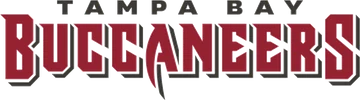
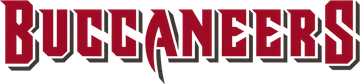
Wordmarks: the owner's one-line Buccaneers and Vikings files
Claude-Session: https://claude.ai/code/session_01Pqo4PUB5f8JqeHqFrErqwg

diff --git a/helmets.py b/helmets.py
@@ -16,12 +16,12 @@ NOFLIP = ["LV", "SF"]
 SET = "nfl"
 # width / height of each wordmark file (assets/wm), so a board header can give every mark the same width and let its height follow
 # (owner 11/27: "I love how the raiders word mark fits under the logo and LV ... Can every word mark fit like that?")
-WM_AR = {'ARI': 10.59, 'ATL': 11.25, 'BAL': 7.06, 'BUF': 3.79, 'CAR': 4.86, 'CHI': 6.92, 'CIN': 10.91, 'CLE': 4.09, 'DAL': 5.71, 'DEN': 8.57, 'DET': 3.71, 'GB': 3.36, 'HOU': 10.0, 'IND': 4.04, 'JAX': 4.44, 'KC': 4.39, 'LA': 4.56, 'LAC': 5.22, 'LV': 5.71, 'MIA': 5.07, 'MIN': 2.31, 'NE': 4.24, 'NO': 4.29, 'NYG': 3.19, 'NYJ': 3.16, 'PHI': 5.9, 'PIT': 3.56, 'SEA': 9.23, 'SF': 5.14, 'TB': 3.6, 'TEN': 6.32, 'WAS': 6.67}
+WM_AR = {'ARI': 10.59, 'ATL': 11.25, 'BAL': 7.06, 'BUF': 3.79, 'CAR': 4.86, 'CHI': 6.92, 'CIN': 10.91, 'CLE': 4.09, 'DAL': 5.71, 'DEN': 8.57, 'DET': 3.71, 'GB': 3.36, 'HOU': 10.0, 'IND': 4.04, 'JAX': 4.44, 'KC': 4.39, 'LA': 4.56, 'LAC': 5.22, 'LV': 5.71, 'MIA': 5.07, 'MIN': 3.1, 'NE': 4.24, 'NO': 4.29, 'NYG': 3.19, 'NYJ': 3.16, 'PHI': 5.9, 'PIT': 3.56, 'SEA': 9.23, 'SF': 5.14, 'TB': 4.29, 'TEN': 6.32, 'WAS': 6.67}
 # owner 11/27 4:52 PM: "when in dark mode can you change the color? ... instead of Denver's dark blue can it be their orange". On the dark
 # theme a one-colour dark wordmark is painted in the team's bright colour: the file is used as a mask (its shape, untouched) and the
 # colour is laid through it. The light theme shows the file as it is. The Ravens mark has its own gold outline and is left alone.
 WM_DARK = {"ARI": "#F4EFE3", "ATL": "#E0313E", "CIN": "#FB4F14", "DAL": "#B0B7BC", "DEN": "#FB4F14", "GB": "#FFB612", "HOU": "#E0313E", "IND": "#F4EFE3", "JAX": "#D7A22A",
-           "LAC": "#FFC20E", "LV": "#A5ACAF", "MIN": "#FFC62F", "NE": "#E0313E", "NO": "#D3BC8D", "NYG": "#F4EFE3", "NYJ": "#F4EFE3", "PHI": "#A5ACAF", "PIT": "#FFB612", "SEA": "#69BE28", "WAS": "#FFB612"}
+           "LAC": "#FFC20E", "LV": "#A5ACAF", "NE": "#E0313E", "NO": "#D3BC8D", "NYG": "#F4EFE3", "NYJ": "#F4EFE3", "PHI": "#A5ACAF", "PIT": "#FFB612", "SEA": "#69BE28", "WAS": "#FFB612"}
 def wm(t, text, dark=False):
     """a team's wordmark picture with its name kept as text for screen readers (owner 11/27: "team fonts ... throughout the site")"""
     k = ALIAS.get(t, t)

diff --git a/RUNBOOK.md b/RUNBOOK.md
@@ -4239,3 +4239,6 @@ the typed price and our estimate go to the database (`fd_quote_add`), once per s
 - Dark theme: `helmets.WM_DARK` maps 20 one-colour dark marks to a bright team colour; the file is the CSS mask, the colour shows
   through. Light theme shows the file itself. A surface that is dark on both themes (First TD cards) passes `dark=True` to `wm()`
   (class `dk`) and keeps the bright version. The Ravens mark (own gold outline) is untouched. The hairline filter is gone.
+- 11/27 5:40 PM: the owner sent one-line Buccaneers and Vikings wordmarks (both already transparent); swapped in, WM_AR refreshed. The new
+  Vikings mark is purple with its own gold outline, so it left WM_DARK (shown as the file on both themes). Older versions in
+  /home/claude/nfl1/wm_src_v2. PROMO rows 73 and 74 set to Missed on the owner's word ("They both lost").
